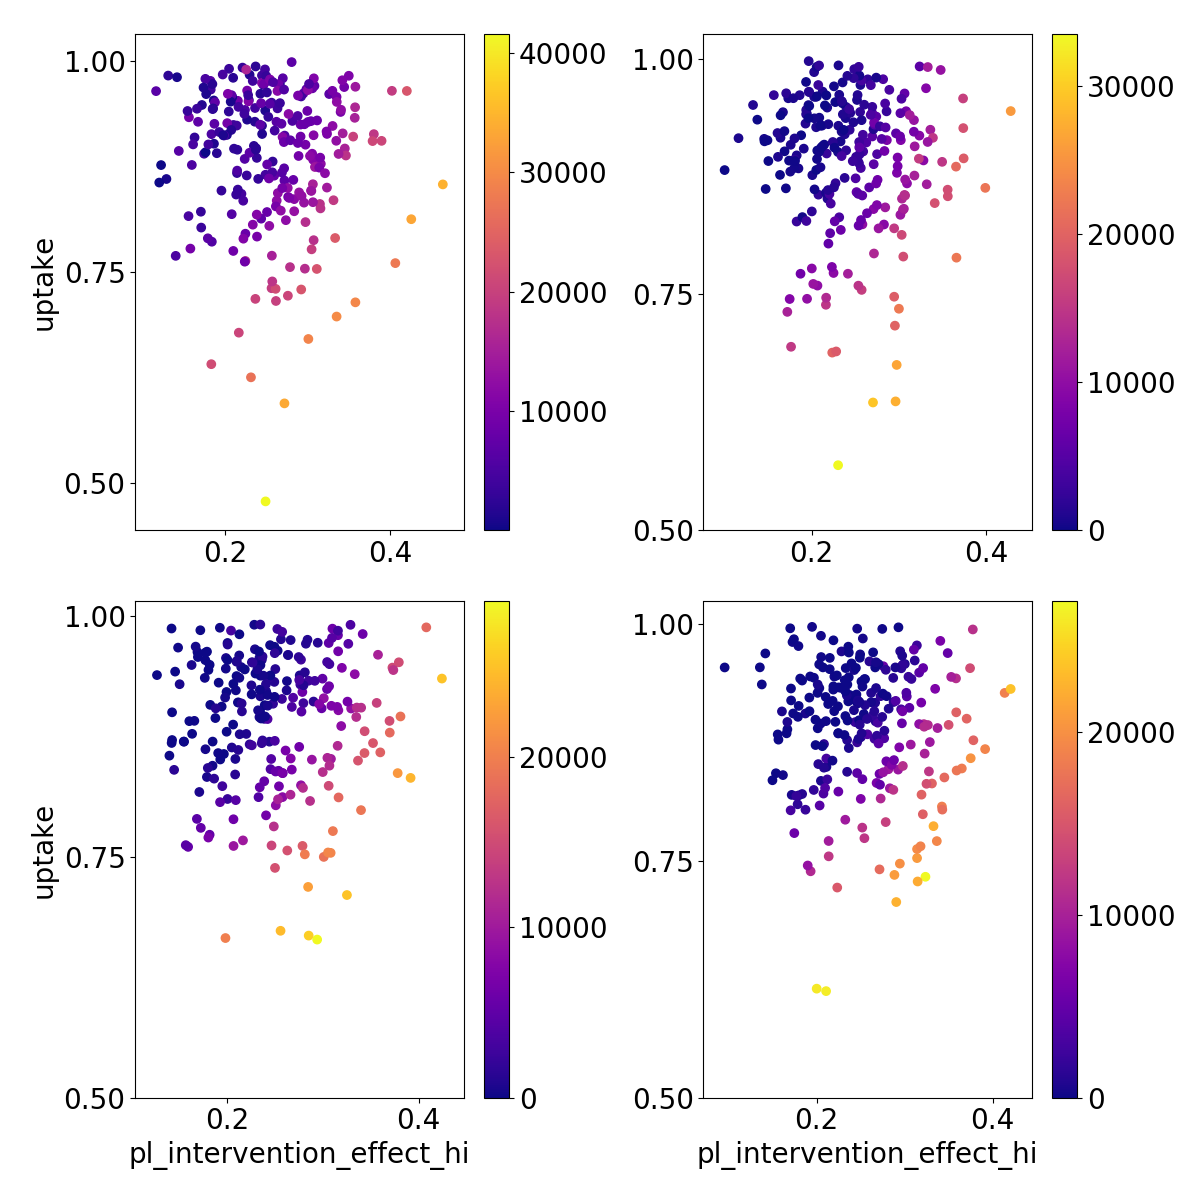
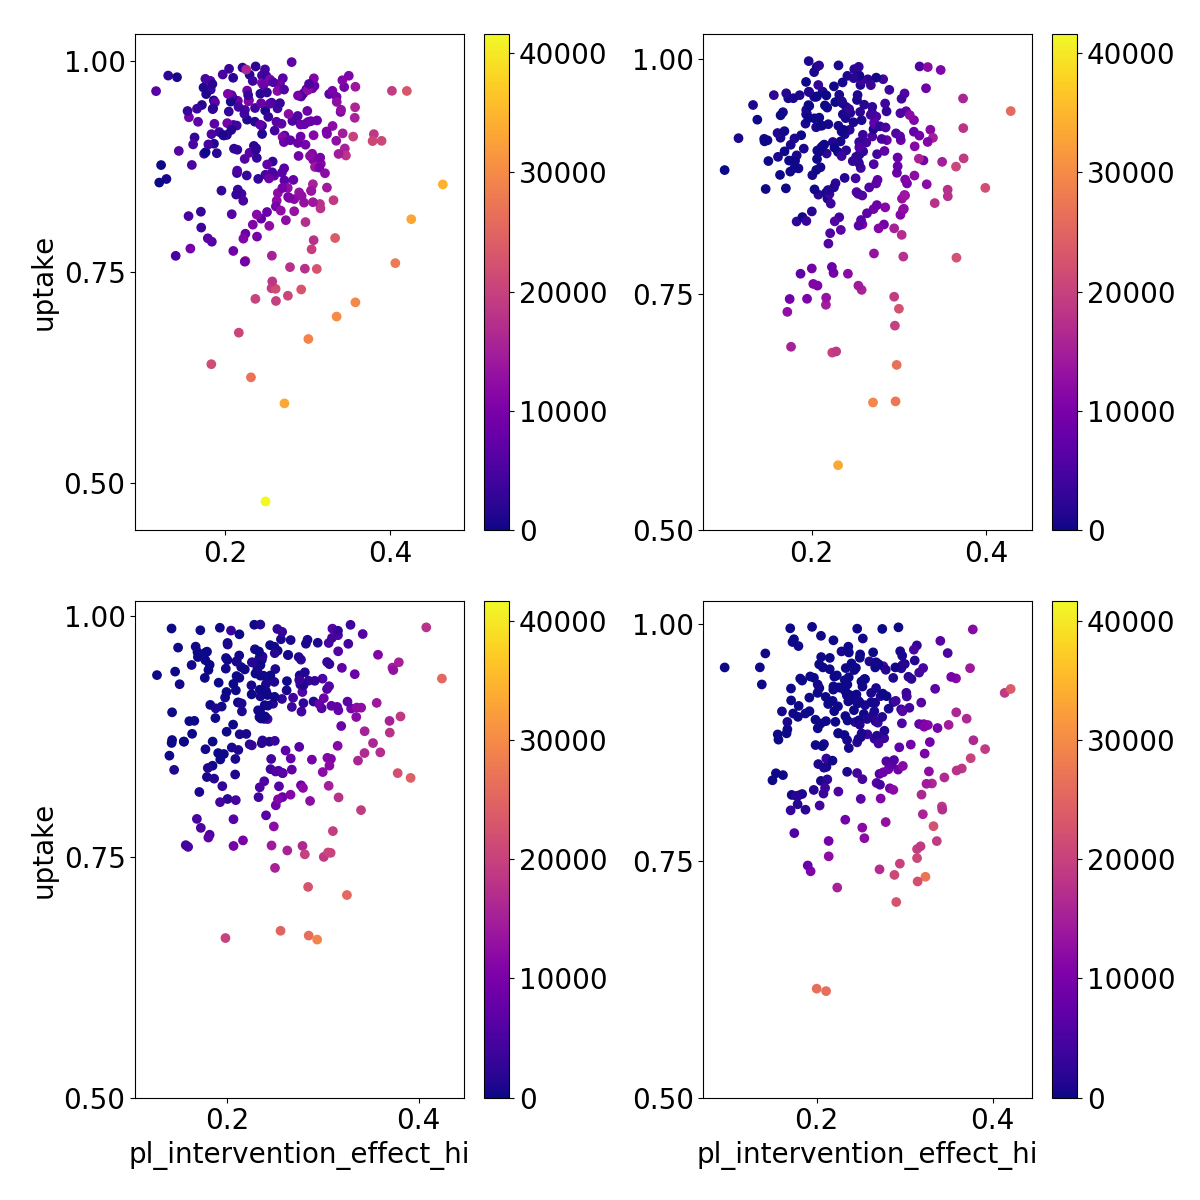
use np.min and np.max to set limits of colorbar

diff --git a/EasyVVUQ/heatmap_PO.py b/EasyVVUQ/heatmap_PO.py
@@ -118,7 +118,7 @@ for i in range(n_runs):
 f = plt.figure('heatmap_IC_prev',figsize=[12,12])
 ax_0 = f.add_subplot(221, ylabel='uptake')
 im_0 = ax_0.scatter(x=pl_intervention_effect_hi_q[:,0], y=uptake_q[:,0], c=IC_prev_avg_max_q[:,0], cmap='plasma', \
-    vmin=min(IC_prev_avg_max_q), vmax=max(IC_prev_avg_max_q))
+    vmin=np.min(IC_prev_avg_max_q), vmax=np.max(IC_prev_avg_max_q))
 cbar_0 = f.colorbar(im_0, ax=ax_0)
 cbar_0.set_ticks([100, 300, 500, 700])
 cbar_0.set_ticklabels(['100', '300', '500', '700'])
@@ -127,7 +127,7 @@ ax_0.set_yticks([0.5, 0.75, 1])
 
 ax_1 = f.add_subplot(222)
 im_1 = ax_1.scatter(x=pl_intervention_effect_hi_q[:,1], y=uptake_q[:,1], c=IC_prev_avg_max_q[:,1], cmap='plasma', \
-    vmin=min(IC_prev_avg_max_q), vmax=max(IC_prev_avg_max_q))
+    vmin=np.min(IC_prev_avg_max_q), vmax=np.max(IC_prev_avg_max_q))
 cbar_1 = f.colorbar(im_1, ax=ax_1)
 cbar_1.set_ticks([100, 300, 500, 700])
 cbar_1.set_ticklabels(['100', '300', '500', '700'])
@@ -136,7 +136,7 @@ ax_1.set_yticks([.5, .75, 1])
 
 ax_2 = f.add_subplot(223, xlabel='pl_intervention_effect_hi', ylabel='uptake')
 im_2 = ax_2.scatter(x=pl_intervention_effect_hi_q[:,2], y=uptake_q[:,2], c=IC_prev_avg_max_q[:,2], cmap='plasma', \
-    vmin=min(IC_prev_avg_max_q), vmax=max(IC_prev_avg_max_q))
+    vmin=np.min(IC_prev_avg_max_q), vmax=np.max(IC_prev_avg_max_q))
 cbar_2 = f.colorbar(im_2, ax=ax_2)
 cbar_2.set_ticks([100, 300, 500, 700])
 cbar_2.set_ticklabels(['100', '300', '500', '700'])
@@ -145,7 +145,7 @@ ax_2.set_yticks([.5, .75, 1])
 
 ax_3 = f.add_subplot(224, xlabel='pl_intervention_effect_hi')
 im_3 = ax_3.scatter(x=pl_intervention_effect_hi_q[:,3], y=uptake_q[:,3], c=IC_prev_avg_max_q[:,3], cmap='plasma', \
-    vmin=min(IC_prev_avg_max_q), vmax=max(IC_prev_avg_max_q))
+    vmin=np.min(IC_prev_avg_max_q), vmax=np.max(IC_prev_avg_max_q))
 cbar_3 = f.colorbar(im_3, ax=ax_3)
 cbar_3.set_ticks([100, 300, 500, 700])
 cbar_3.set_ticklabels(['100', '300', '500', '700'])
@@ -161,7 +161,7 @@ f.savefig('figures/heatmap_PO_IC_prev.png')
 f = plt.figure('heatmap_IC_ex',figsize=[12,12])
 ax_0 = f.add_subplot(221, ylabel='uptake')
 im_0 = ax_0.scatter(x=pl_intervention_effect_hi_q[:,0], y=uptake_q[:,0], c=IC_ex_max_q[:,0], cmap='plasma', \
-    vmin=min(IC_ex_max_q), vmax=max(IC_ex_max_q))
+    vmin=np.min(IC_ex_max_q), vmax=np.max(IC_ex_max_q))
 cbar_0 = f.colorbar(im_0, ax=ax_0)
 cbar_0.set_ticks([0, 1e4, 2e4, 3e4, 4e4])
 cbar_0.set_ticklabels(['0', '10000', '20000', '30000', '40000'])
@@ -170,7 +170,7 @@ ax_0.set_yticks([.5, .75, 1])
 
 ax_1 = f.add_subplot(222)
 im_1 = ax_1.scatter(x=pl_intervention_effect_hi_q[:,1], y=uptake_q[:,1], c=IC_ex_max_q[:,1], cmap='plasma', \
-    vmin=min(IC_ex_max_q), vmax=max(IC_ex_max_q))
+    vmin=np.min(IC_ex_max_q), vmax=np.max(IC_ex_max_q))
 cbar_1 = f.colorbar(im_1, ax=ax_1)
 cbar_1.set_ticks([0, 1e4, 2e4, 3e4, 4e4])
 cbar_1.set_ticklabels(['0', '10000', '20000', '30000', '40000'])
@@ -179,7 +179,7 @@ ax_1.set_yticks([.5, .75, 1])
 
 ax_2 = f.add_subplot(223, xlabel='pl_intervention_effect_hi', ylabel='uptake')
 im_2 = ax_2.scatter(x=pl_intervention_effect_hi_q[:,2], y=uptake_q[:,2], c=IC_ex_max_q[:,2], cmap='plasma', \
-    vmin=min(IC_ex_max_q), vmax=max(IC_ex_max_q))
+    vmin=np.min(IC_ex_max_q), vmax=np.max(IC_ex_max_q))
 cbar_2 = f.colorbar(im_2, ax=ax_2)
 cbar_2.set_ticks([0, 1e4, 2e4, 3e4, 4e4])
 cbar_2.set_ticklabels(['0', '10000', '20000', '30000', '40000'])
@@ -188,7 +188,7 @@ ax_2.set_yticks([.5, .75, 1])
 
 ax_3 = f.add_subplot(224, xlabel='pl_intervention_effect_hi')
 im_3 = ax_3.scatter(x=pl_intervention_effect_hi_q[:,3], y=uptake_q[:,3], c=IC_ex_max_q[:,3], cmap='plasma', \
-    vmin=min(IC_ex_max_q), vmax=max(IC_ex_max_q))
+    vmin=np.min(IC_ex_max_q), vmax=np.max(IC_ex_max_q))
 cbar_3 = f.colorbar(im_3, ax=ax_3)
 cbar_3.set_ticks([0, 1e4, 2e4, 3e4, 4e4])
 cbar_3.set_ticklabels(['0', '10000', '20000', '30000', '40000'])
